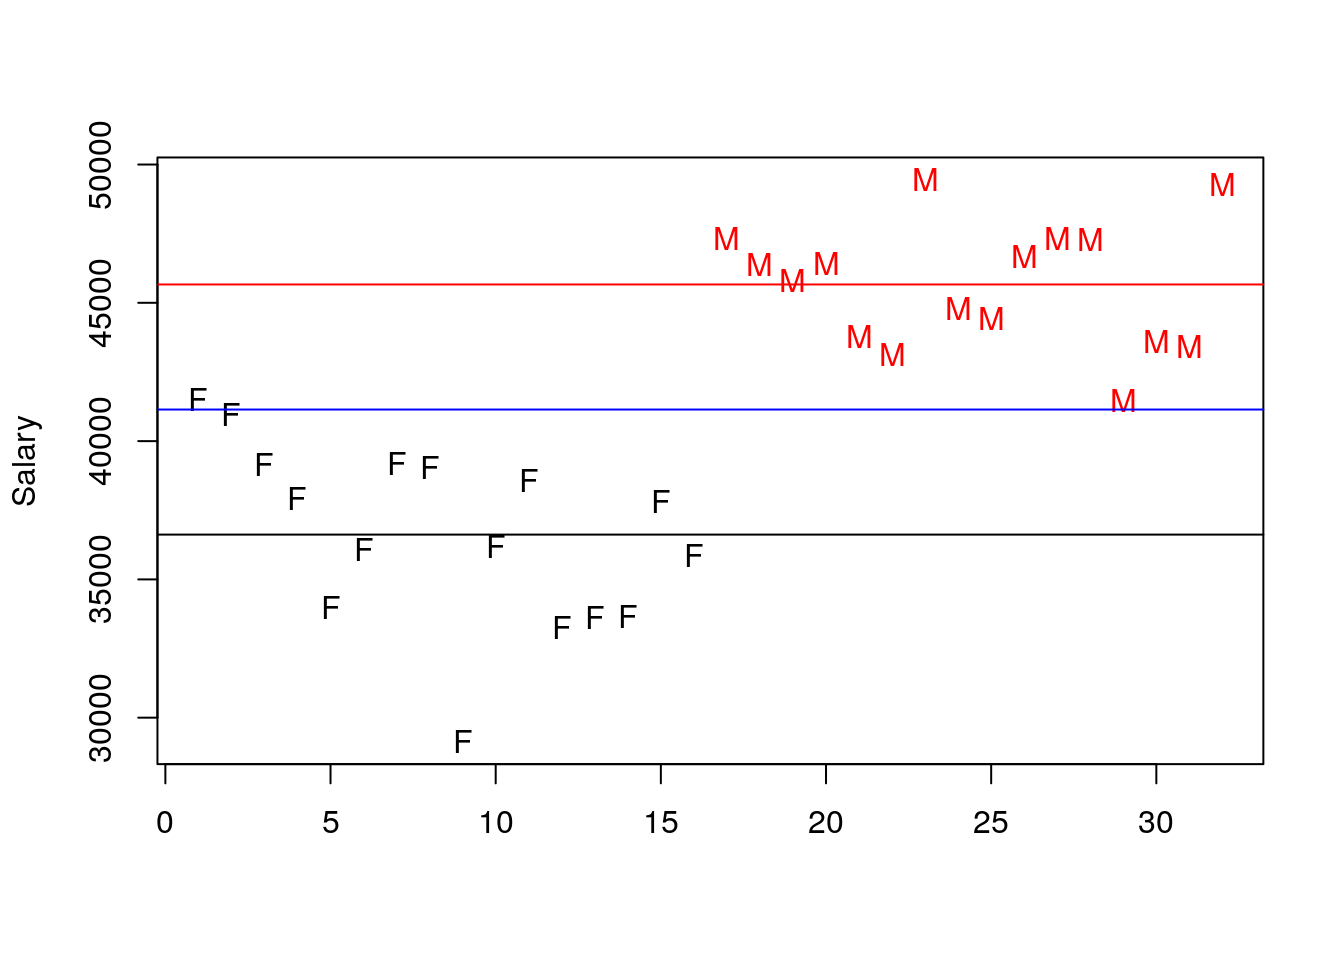
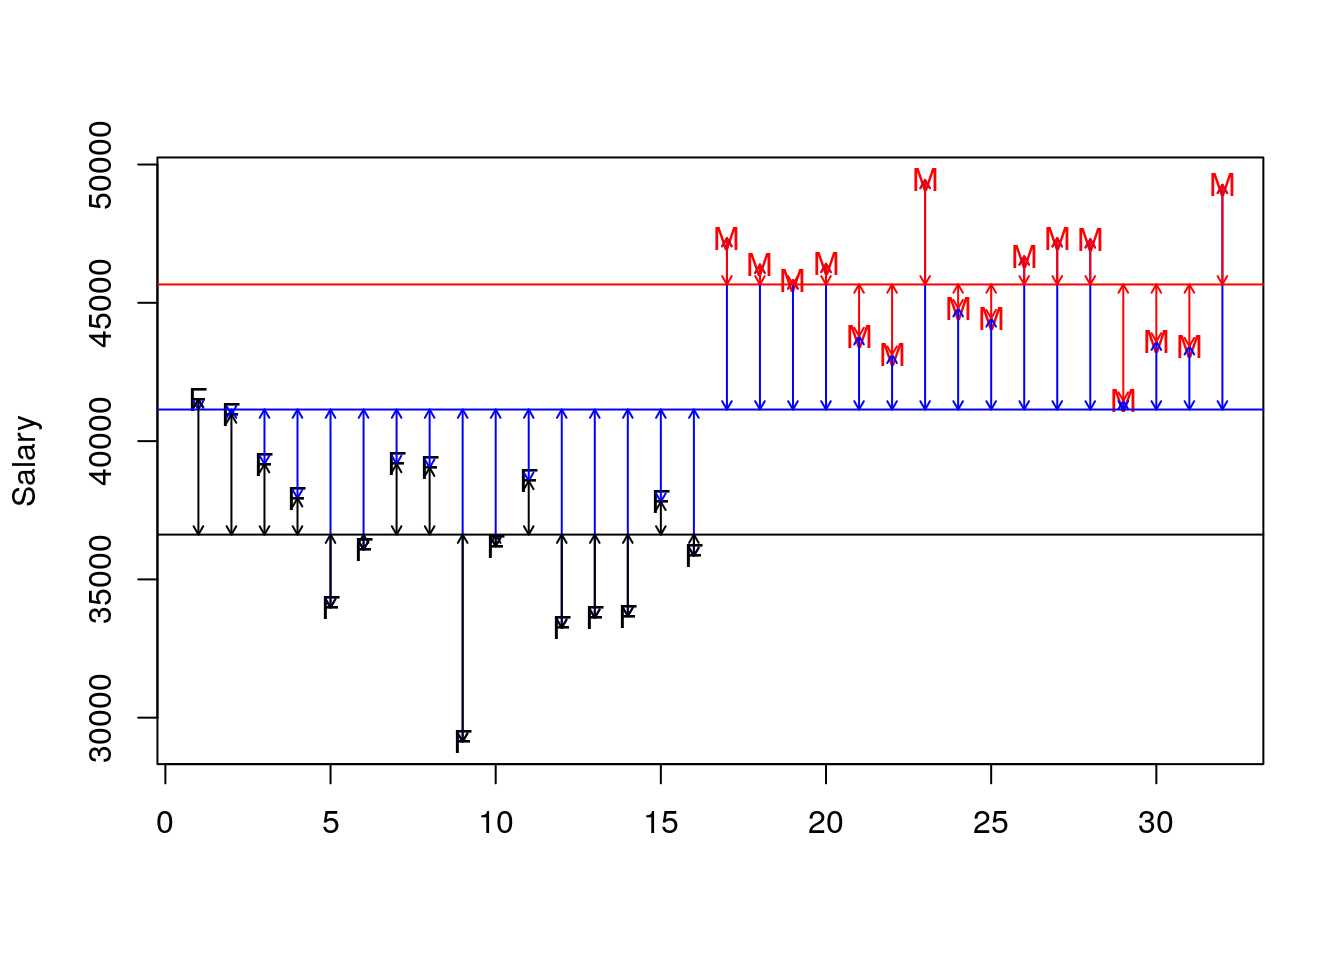
More detail in a black box

diff --git a/public/post/black-boxes-a-gender-gap-example/index.html b/public/post/black-boxes-a-gender-gap-example/index.html
@@ -269,7 +269,7 @@
   
   <span class="middot-divider"></span>
   <span class="article-reading-time">
-    3 min read
+    4 min read
   </span>
   
 
@@ -344,7 +344,8 @@
       <div id="variance-in-the-outcome-the-black-box" class="section level2">
 <h2>Variance in the Outcome: The Black Box</h2>
 <p>Regression models engage an exercise in variance accounting. How much of the outcome is explained by the inputs, individually (slope divided by standard error is t) and collectively (Average explained/Average unexplained with averaging over degrees of freedom is F). This, of course, assumes normal errors. This document provides a function for making use of the black box. Just as in common parlance, a black box is the unexplained. Let’s take an example.</p>
-<pre class="r"><code>OregonSalaries &lt;- structure(list(Obs = 1:32, Salary = c(41514.38701, 40964.06985, 
+<pre class="r"><code>options(scipen=10)
+OregonSalaries &lt;- structure(list(Obs = 1:32, Salary = c(41514.38701, 40964.06985, 
 39170.19178, 37936.57206, 33981.77752, 36077.27107, 39174.05733, 
 39037.372, 29131.74865, 36200.44592, 38561.3987, 33247.92306, 
 33609.4874, 33669.22275, 37805.83017, 35846.13454, 47342.65909, 
@@ -367,21 +368,35 @@ black.box.maker &lt;- function(mod1) {
             polygon(x=c(0,0,rt1,rt1), y=c(0,rt1,rt1,0), col=&quot;black&quot;)
             polygon(x=c(0,0,rt2,rt2), y=c(0,rt2,rt2,0), col=&quot;green&quot;)
             }</code></pre>
-<p>OregonSalaries contains 32 observations: 16 males and 16 females. The mean of all salaries is 4.114243310^{4}; let me put that in a plot.</p>
-<pre class="r"><code>plot(y=OregonSalaries$Salary, x=c(1:32), ylab=&quot;Salary&quot;, col=as.factor(OregonSalaries$Gender), xlab=&quot;&quot;)
-abline(h=mean(OregonSalaries$Salary), col=&quot;blue&quot;)</code></pre>
+<p>OregonSalaries contains 32 observations: 16 males and 16 females. The mean of all salaries is 41142.4330581; let me put that in a plot in blue. The total sum of squares can be represented as the sum of all the squared distances to the blue line; each vertical distance is demarcated with an arrow below in blue. The total sum of squares: the total area of the black box in the original metric (squared dollars) is: 892955384.313085.</p>
+<pre class="r"><code>plot(y=OregonSalaries$Salary, x=c(1:32), ylab=&quot;Salary&quot;, col=as.factor(OregonSalaries$Gender), xlab=&quot;&quot;, pch=c(rep(&quot;F&quot;,16),rep(&quot;M&quot;,16)))
+abline(h=mean(OregonSalaries$Salary), col=&quot;blue&quot;)
+arrows(x0=c(1:32), x1=c(1:32), y1=OregonSalaries$Salary,y0=mean(OregonSalaries$Salary), col=&quot;blue&quot;, code=3, length=0.05)</code></pre>
 <p><img src="/post/2018-02-22-black-boxes-a-gender-gap-example_files/figure-html/PlotG-1.png" width="672" /></p>
-<p>The total sum of squares: the total area of the black box in the original metric (squared dollars). Here, it is the sum of the squared vertical distances to the mean line: 8.929553810^{8}.</p>
 </div>
 <div id="invoking-the-function" class="section level2">
 <h2>Invoking the Function</h2>
+<p>To represent the black box,let me draw it. The length of each side will be the square root of the black box; our total sum of squares is just under 900 million squared dollars so each side will be approximately 30000. The box appears below.</p>
+<pre class="r"><code>mod1 &lt;- lm(Salary~1, data=OregonSalaries)
+black.box.maker(mod1)</code></pre>
+<p><img src="/post/2018-02-22-black-boxes-a-gender-gap-example_files/figure-html/BBBase-1.png" width="672" /></p>
+</div>
+<div id="a-regression-model" class="section level2">
+<h2>A Regression Model</h2>
 <p>First, a regression model. I will estimate the following regression:</p>
 <p><span class="math display">\[ Salary_{i} = \alpha + \beta_{1}*Gender_{i} + \epsilon \]</span></p>
-<p>The picture has a red line and a black line and the residual/leftover/unexplained sum of squares is now the difference between the point and the respective vertical line (red or black). The sum of the remaining squared vertical distances is 2.386212810^{8}</p>
+<p>What does the regression imply? That salary for each individual <span class="math inline">\(i\)</span> is a function of a constant and gender. Given the way that R works, <span class="math inline">\(\alpha\)</span> will represent the average for females and <span class="math inline">\(\beta\)</span> will represent the difference between male and female average salaries.</p>
+</div>
+<div id="a-new-residual-sum-of-squares" class="section level2">
+<h2>A New Residual Sum of Squares</h2>
+<p>The picture now has a red line and a black line and the residual/leftover/unexplained sum of squares is now the difference between the point and the respective vertical line (red arrows or black arrows). The sum of the remaining squared vertical distances is 238621276.595113. This is the amount leftover or residual given the gender.</p>
 <pre class="r"><code>plot(y=OregonSalaries$Salary, x=c(1:32), ylab=&quot;Salary&quot;, col=as.factor(OregonSalaries$Gender), xlab=&quot;&quot;, pch=c(rep(&quot;F&quot;,16),rep(&quot;M&quot;,16)))
 abline(h=mean(OregonSalaries$Salary), col=&quot;blue&quot;)
 abline(h=mean(subset(OregonSalaries, Gender==&quot;Female&quot;)$Salary, na.rm=T), col=&quot;black&quot;)
-abline(h=mean(subset(OregonSalaries, Gender==&quot;Male&quot;)$Salary, na.rm=T), col=&quot;red&quot;)</code></pre>
+abline(h=mean(subset(OregonSalaries, Gender==&quot;Male&quot;)$Salary, na.rm=T), col=&quot;red&quot;)
+arrows(x0=c(1:32), x1=c(1:32), y1=OregonSalaries$Salary,y0=mean(OregonSalaries$Salary), col=&quot;blue&quot;, code=3, length=0.05)
+arrows(x0=c(1:16), x1=c(1:16), y1=OregonSalaries$Salary[c(1:16)],y0=mean(subset(OregonSalaries, Gender==&quot;Female&quot;)$Salary, na.rm=T), col=&quot;black&quot;, code=3, length=0.05)
+arrows(x0=c(17:32), x1=c(17:32), y1=OregonSalaries$Salary[c(17:32)],y0=mean(subset(OregonSalaries, Gender==&quot;Male&quot;)$Salary, na.rm=T), col=&quot;red&quot;, code=3, length=0.05)</code></pre>
 <p><img src="/post/2018-02-22-black-boxes-a-gender-gap-example_files/figure-html/BasePlot-1.png" width="672" /></p>
 <pre class="r"><code>mod1 &lt;- lm(Salary~Gender, data=OregonSalaries)
 black.box.maker(mod1)</code></pre>
@@ -396,22 +411,22 @@ black.box.maker(mod1)</code></pre>
 ## -7488.7 -2107.9   433.3  1743.9  4893.9 
 ## 
 ## Coefficients:
-##             Estimate Std. Error t value Pr(&gt;|t|)    
-## (Intercept)  36620.5      705.1   51.94  &lt; 2e-16 ***
-## GenderMale    9043.9      997.1    9.07 4.22e-10 ***
+##             Estimate Std. Error t value       Pr(&gt;|t|)    
+## (Intercept)  36620.5      705.1   51.94        &lt; 2e-16 ***
+## GenderMale    9043.9      997.1    9.07 0.000000000422 ***
 ## ---
 ## Signif. codes:  0 &#39;***&#39; 0.001 &#39;**&#39; 0.01 &#39;*&#39; 0.05 &#39;.&#39; 0.1 &#39; &#39; 1
 ## 
 ## Residual standard error: 2820 on 30 degrees of freedom
 ## Multiple R-squared:  0.7328, Adjusted R-squared:  0.7239 
-## F-statistic: 82.26 on 1 and 30 DF,  p-value: 4.223e-10</code></pre>
+## F-statistic: 82.26 on 1 and 30 DF,  p-value: 0.0000000004223</code></pre>
 <pre class="r"><code>anova(mod1)</code></pre>
 <pre><code>## Analysis of Variance Table
 ## 
 ## Response: Salary
-##           Df    Sum Sq   Mean Sq F value    Pr(&gt;F)    
-## Gender     1 654334108 654334108  82.264 4.223e-10 ***
-## Residuals 30 238621277   7954043                      
+##           Df    Sum Sq   Mean Sq F value          Pr(&gt;F)    
+## Gender     1 654334108 654334108  82.264 0.0000000004223 ***
+## Residuals 30 238621277   7954043                            
 ## ---
 ## Signif. codes:  0 &#39;***&#39; 0.001 &#39;**&#39; 0.01 &#39;*&#39; 0.05 &#39;.&#39; 0.1 &#39; &#39; 1</code></pre>
 </div>

diff --git a/content/post/2018-02-22-black-boxes-a-gender-gap-example.html b/content/post/2018-02-22-black-boxes-a-gender-gap-example.html
@@ -17,7 +17,8 @@ tags:
 <div id="variance-in-the-outcome-the-black-box" class="section level2">
 <h2>Variance in the Outcome: The Black Box</h2>
 <p>Regression models engage an exercise in variance accounting. How much of the outcome is explained by the inputs, individually (slope divided by standard error is t) and collectively (Average explained/Average unexplained with averaging over degrees of freedom is F). This, of course, assumes normal errors. This document provides a function for making use of the black box. Just as in common parlance, a black box is the unexplained. Let’s take an example.</p>
-<pre class="r"><code>OregonSalaries &lt;- structure(list(Obs = 1:32, Salary = c(41514.38701, 40964.06985, 
+<pre class="r"><code>options(scipen=10)
+OregonSalaries &lt;- structure(list(Obs = 1:32, Salary = c(41514.38701, 40964.06985, 
 39170.19178, 37936.57206, 33981.77752, 36077.27107, 39174.05733, 
 39037.372, 29131.74865, 36200.44592, 38561.3987, 33247.92306, 
 33609.4874, 33669.22275, 37805.83017, 35846.13454, 47342.65909, 
@@ -40,21 +41,35 @@ black.box.maker &lt;- function(mod1) {
             polygon(x=c(0,0,rt1,rt1), y=c(0,rt1,rt1,0), col=&quot;black&quot;)
             polygon(x=c(0,0,rt2,rt2), y=c(0,rt2,rt2,0), col=&quot;green&quot;)
             }</code></pre>
-<p>OregonSalaries contains 32 observations: 16 males and 16 females. The mean of all salaries is 4.114243310^{4}; let me put that in a plot.</p>
-<pre class="r"><code>plot(y=OregonSalaries$Salary, x=c(1:32), ylab=&quot;Salary&quot;, col=as.factor(OregonSalaries$Gender), xlab=&quot;&quot;)
-abline(h=mean(OregonSalaries$Salary), col=&quot;blue&quot;)</code></pre>
+<p>OregonSalaries contains 32 observations: 16 males and 16 females. The mean of all salaries is 41142.4330581; let me put that in a plot in blue. The total sum of squares can be represented as the sum of all the squared distances to the blue line; each vertical distance is demarcated with an arrow below in blue. The total sum of squares: the total area of the black box in the original metric (squared dollars) is: 892955384.313085.</p>
+<pre class="r"><code>plot(y=OregonSalaries$Salary, x=c(1:32), ylab=&quot;Salary&quot;, col=as.factor(OregonSalaries$Gender), xlab=&quot;&quot;, pch=c(rep(&quot;F&quot;,16),rep(&quot;M&quot;,16)))
+abline(h=mean(OregonSalaries$Salary), col=&quot;blue&quot;)
+arrows(x0=c(1:32), x1=c(1:32), y1=OregonSalaries$Salary,y0=mean(OregonSalaries$Salary), col=&quot;blue&quot;, code=3, length=0.05)</code></pre>
 <p><img src="/post/2018-02-22-black-boxes-a-gender-gap-example_files/figure-html/PlotG-1.png" width="672" /></p>
-<p>The total sum of squares: the total area of the black box in the original metric (squared dollars). Here, it is the sum of the squared vertical distances to the mean line: 8.929553810^{8}.</p>
 </div>
 <div id="invoking-the-function" class="section level2">
 <h2>Invoking the Function</h2>
+<p>To represent the black box,let me draw it. The length of each side will be the square root of the black box; our total sum of squares is just under 900 million squared dollars so each side will be approximately 30000. The box appears below.</p>
+<pre class="r"><code>mod1 &lt;- lm(Salary~1, data=OregonSalaries)
+black.box.maker(mod1)</code></pre>
+<p><img src="/post/2018-02-22-black-boxes-a-gender-gap-example_files/figure-html/BBBase-1.png" width="672" /></p>
+</div>
+<div id="a-regression-model" class="section level2">
+<h2>A Regression Model</h2>
 <p>First, a regression model. I will estimate the following regression:</p>
 <p><span class="math display">\[ Salary_{i} = \alpha + \beta_{1}*Gender_{i} + \epsilon \]</span></p>
-<p>The picture has a red line and a black line and the residual/leftover/unexplained sum of squares is now the difference between the point and the respective vertical line (red or black). The sum of the remaining squared vertical distances is 2.386212810^{8}</p>
+<p>What does the regression imply? That salary for each individual <span class="math inline">\(i\)</span> is a function of a constant and gender. Given the way that R works, <span class="math inline">\(\alpha\)</span> will represent the average for females and <span class="math inline">\(\beta\)</span> will represent the difference between male and female average salaries.</p>
+</div>
+<div id="a-new-residual-sum-of-squares" class="section level2">
+<h2>A New Residual Sum of Squares</h2>
+<p>The picture now has a red line and a black line and the residual/leftover/unexplained sum of squares is now the difference between the point and the respective vertical line (red arrows or black arrows). The sum of the remaining squared vertical distances is 238621276.595113. This is the amount leftover or residual given the gender.</p>
 <pre class="r"><code>plot(y=OregonSalaries$Salary, x=c(1:32), ylab=&quot;Salary&quot;, col=as.factor(OregonSalaries$Gender), xlab=&quot;&quot;, pch=c(rep(&quot;F&quot;,16),rep(&quot;M&quot;,16)))
 abline(h=mean(OregonSalaries$Salary), col=&quot;blue&quot;)
 abline(h=mean(subset(OregonSalaries, Gender==&quot;Female&quot;)$Salary, na.rm=T), col=&quot;black&quot;)
-abline(h=mean(subset(OregonSalaries, Gender==&quot;Male&quot;)$Salary, na.rm=T), col=&quot;red&quot;)</code></pre>
+abline(h=mean(subset(OregonSalaries, Gender==&quot;Male&quot;)$Salary, na.rm=T), col=&quot;red&quot;)
+arrows(x0=c(1:32), x1=c(1:32), y1=OregonSalaries$Salary,y0=mean(OregonSalaries$Salary), col=&quot;blue&quot;, code=3, length=0.05)
+arrows(x0=c(1:16), x1=c(1:16), y1=OregonSalaries$Salary[c(1:16)],y0=mean(subset(OregonSalaries, Gender==&quot;Female&quot;)$Salary, na.rm=T), col=&quot;black&quot;, code=3, length=0.05)
+arrows(x0=c(17:32), x1=c(17:32), y1=OregonSalaries$Salary[c(17:32)],y0=mean(subset(OregonSalaries, Gender==&quot;Male&quot;)$Salary, na.rm=T), col=&quot;red&quot;, code=3, length=0.05)</code></pre>
 <p><img src="/post/2018-02-22-black-boxes-a-gender-gap-example_files/figure-html/BasePlot-1.png" width="672" /></p>
 <pre class="r"><code>mod1 &lt;- lm(Salary~Gender, data=OregonSalaries)
 black.box.maker(mod1)</code></pre>
@@ -69,22 +84,22 @@ black.box.maker(mod1)</code></pre>
 ## -7488.7 -2107.9   433.3  1743.9  4893.9 
 ## 
 ## Coefficients:
-##             Estimate Std. Error t value Pr(&gt;|t|)    
-## (Intercept)  36620.5      705.1   51.94  &lt; 2e-16 ***
-## GenderMale    9043.9      997.1    9.07 4.22e-10 ***
+##             Estimate Std. Error t value       Pr(&gt;|t|)    
+## (Intercept)  36620.5      705.1   51.94        &lt; 2e-16 ***
+## GenderMale    9043.9      997.1    9.07 0.000000000422 ***
 ## ---
 ## Signif. codes:  0 &#39;***&#39; 0.001 &#39;**&#39; 0.01 &#39;*&#39; 0.05 &#39;.&#39; 0.1 &#39; &#39; 1
 ## 
 ## Residual standard error: 2820 on 30 degrees of freedom
 ## Multiple R-squared:  0.7328, Adjusted R-squared:  0.7239 
-## F-statistic: 82.26 on 1 and 30 DF,  p-value: 4.223e-10</code></pre>
+## F-statistic: 82.26 on 1 and 30 DF,  p-value: 0.0000000004223</code></pre>
 <pre class="r"><code>anova(mod1)</code></pre>
 <pre><code>## Analysis of Variance Table
 ## 
 ## Response: Salary
-##           Df    Sum Sq   Mean Sq F value    Pr(&gt;F)    
-## Gender     1 654334108 654334108  82.264 4.223e-10 ***
-## Residuals 30 238621277   7954043                      
+##           Df    Sum Sq   Mean Sq F value          Pr(&gt;F)    
+## Gender     1 654334108 654334108  82.264 0.0000000004223 ***
+## Residuals 30 238621277   7954043                            
 ## ---
 ## Signif. codes:  0 &#39;***&#39; 0.001 &#39;**&#39; 0.01 &#39;*&#39; 0.05 &#39;.&#39; 0.1 &#39; &#39; 1</code></pre>
 </div>

diff --git a/public/index.html b/public/index.html
@@ -1349,7 +1349,7 @@ What is Panel Data? Panel data are variously called longitudinal, panel, cross-s
   
   <span class="middot-divider"></span>
   <span class="article-reading-time">
-    3 min read
+    4 min read
   </span>
   
 

diff --git a/public/post/index.html b/public/post/index.html
@@ -391,7 +391,7 @@ What is Panel Data? Panel data are variously called longitudinal, panel, cross-s
   
   <span class="middot-divider"></span>
   <span class="article-reading-time">
-    3 min read
+    4 min read
   </span>
   
 
